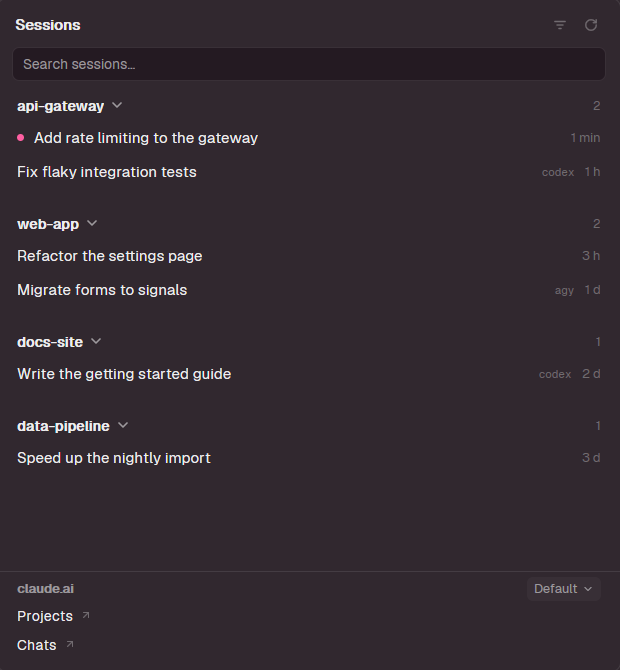
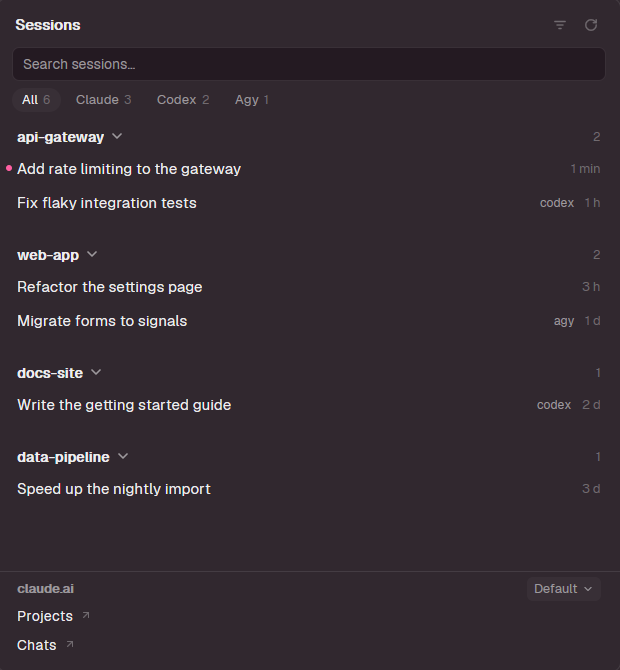
docs: document the agent filter and bump to 0.2.1

diff --git a/RECIPE.md b/RECIPE.md
@@ -35,7 +35,7 @@ Folders are ordered by their newest session; sessions inside a folder are newest
 
 - `mods/sessions/mod.json`: `{ "place": "none", "title": "Agent Sessions", "overlay": { "kind": "popup", "at": "top", "offset": 48, "width": 520, "height": 0.8 } }`.
 - `mods/sessions/keys.json`: `{ "global": { "ctrl-shift-s": "mod.open:sessions" } }`, to merge into the person's keys.
-- `mods/sessions/main.js`: an `AGENTS` table (`claude`, `codex`, `agy`) with the badge label (empty for Claude), `resume(id)` argv and `fresh` argv of each: `claude --resume <id>`, `codex --no-daemon resume <id>` (herdr needs `--no-daemon`; the shared daemon would reuse the first terminal), `agy --conversation <id>`. A non-Claude row shows its label in 9.5 px `dim` before the age and the label is part of the search text; the folder's `+` starts the agent of its newest session. Only Claude rows can be `live`. A `View` using `gpui-kit` and `gpui-base` (`v_flex`, `h_flex`, `InputState`, `Input`, `overflow_y_scrollbar`), and from `herdr`: `exec`, `home`, `run`, `theme`, `props`, `closeOverlay`, `agents`, `panes`, `window`. `props()?.overlay` (`props()` can be null) tells the popup from a docked block: the popup uses a fixed 560 px height, `popover` fill, focuses the search and closes itself when a session opens. All colors come from `theme()`.
+- `mods/sessions/main.js`: an `AGENTS` table (`claude`, `codex`, `agy`) with the badge label (empty for Claude), `resume(id)` argv and `fresh` argv of each: `claude --resume <id>`, `codex --no-daemon resume <id>` (herdr needs `--no-daemon`; the shared daemon would reuse the first terminal), `agy --conversation <id>`. A non-Claude row shows its label in 10 px `muted` before the age and the label is part of the search text. Under the search box (12 px side margins, 6 px below) a row of 20 px pill chips (radius 10, 8 px padding, 11 px label plus a 10 px `dim` count) filters by agent: All, Claude, Codex, Agy; the active chip has a `raised` fill and `foreground` text, the others `muted` with a `hover` fill; the row exists only when at least two agents have sessions, and a selected agent that has no sessions any more falls back to All. The live dot (5 px `accent`) sits in the row's left gutter so titles stay aligned; the folder's `+` starts the agent of its newest session. Only Claude rows can be `live`. A `View` using `gpui-kit` and `gpui-base` (`v_flex`, `h_flex`, `InputState`, `Input`, `overflow_y_scrollbar`), and from `herdr`: `exec`, `home`, `run`, `theme`, `props`, `closeOverlay`, `agents`, `panes`, `window`. `props()?.overlay` (`props()` can be null) tells the popup from a docked block: the popup uses a fixed 560 px height, `popover` fill, focuses the search and closes itself when a session opens. All colors come from `theme()`.
 - `mods/sessions/index.js`: plain Node, no dependencies. Run with `exec("node", [<home>/.config/herdr-app/mods/sessions/index.js])`. For every `~/.claude/projects/<folder>/*.jsonl` it reads the first 48 KB and the last 96 KB, parses each complete JSON line and takes `cwd`, `gitBranch`, the last `ai-title`, `last-prompt` and `agent-name`. It prints a JSON array of `{id, cwd, project, worktree, title, name, last, branch, mtime, live}` sorted by `mtime` descending. `live` is true when `~/.claude/sessions/<pid>.json` names the session and `process.kill(pid, 0)` finds that process alive. Transcripts without a `cwd` are skipped. A path containing `.claude/worktrees` marks a worktree.
 - Icons (`close.svg`, `refresh.svg`, `external.svg`, `chevron-down.svg`, `chevron-right.svg`, `plus.svg`, `sort.svg`, `check.svg`): one-color SVGs tinted by the text color. Hover uses `on_hover` with one state field and calls `cx.notify()` only when it changes; no timers.
 - `mods/sessions-button/` (`main.js`, `mod.json` with `"place": "none"`, `history.svg`): a 26 px high button, 12 px text, 8 px horizontal padding, 14 px icon plus the label "Sessions"; fill `chrome`, text `muted`, hover `hover` fill and `foreground` text, same bottom border as the tab bar; tooltip "Session history (Ctrl+Shift+S)". Click: `run("mod.open", { name: "sessions" })`; its mouse-down is stopped so it does not start a window drag. `h_flex` comes from `gpui-base`, not `gpui-kit`. In a layout it sits in a `tabbar` row (112 px) to the left of the `tabs` block: `{ "id": "tabbar", "type": "row", "size": { "px": 30 }, "window_drag": true, "children": [ <sessions-button block, 112 px>, <tabs block, weight 1> ] }`; use the height the `tabs` block already has.

diff --git a/CHANGELOG.md b/CHANGELOG.md
@@ -5,6 +5,15 @@ The format follows [Keep a Changelog](https://keepachangelog.com/en/1.1.0/) and 
 
 ## [Unreleased]
 
+## [0.2.1] - 2026-11-22
+
+### Added
+- A row of agent filter chips (All, Claude, Codex, Agy, with counts) under the search box, shown only when at least two agents have sessions.
+
+### Changed
+- The `codex` / `agy` badge is a little larger and clearer (10 px, `muted`).
+- The running-session dot sits in the left gutter, so titles no longer shift right.
+
 ## [0.2.0] - 2026-11-22
 
 ### Added
@@ -33,6 +42,7 @@ The format follows [Keep a Changelog](https://keepachangelog.com/en/1.1.0/) and 
 - A "claude.ai" section: your own pinned links (from the clipboard, `claude.ai` links only) plus Projects and Chats shortcuts.
 - "Open links in" chip on the claude.ai heading, always showing the current choice and opening a dropdown to change it. Browser (Default, Brave, Chrome, Edge, Firefox) and mode (Normal, New window, Private) are chosen separately, so any combination works; a previously saved combined choice is migrated. Each link's tooltip says where it will open.
 
-[Unreleased]: https://github.com/JhonZBM/herdr-sessions/compare/v0.2.0...HEAD
+[Unreleased]: https://github.com/JhonZBM/herdr-sessions/compare/v0.2.1...HEAD
+[0.2.1]: https://github.com/JhonZBM/herdr-sessions/compare/v0.2.0...v0.2.1
 [0.2.0]: https://github.com/JhonZBM/herdr-sessions/compare/v0.1.0...v0.2.0
 [0.1.0]: https://github.com/JhonZBM/herdr-sessions/releases/tag/v0.1.0

diff --git a/README.es.md b/README.es.md
@@ -78,7 +78,7 @@ Imprime JSON. Nunca escribe, no envía nada por la red e ignora las transcripcio
 - Una ventana privada del navegador comparte su sesión solo mientras haya una ventana privada abierta; si no, pedirá iniciar sesión otra vez.
 - Saltar a una sesión en marcha busca su terminal por el nombre de la sesión que aparece en el título de la pestaña. Dos sesiones de Claude con el mismo nombre, o una que corra fuera de herdr, no se pueden emparejar y muestran "running outside herdr".
 - Las sesiones sin título generado por la IA muestran su primer prompt.
-- Las filas de Codex y Antigravity llevan una insignia `codex` / `agy`, y escribir el nombre del agente en el buscador filtra por él.
+- Las filas de Codex y Antigravity llevan una insignia `codex` / `agy`. Cuando dos o más agentes tienen sesiones, una fila de chips (All, Claude, Codex, Agy, cada uno con su contador) bajo el buscador filtra por agente; con un solo agente queda oculta.
 - Solo las sesiones de Claude Code se detectan como en marcha. Una fila de Codex o Antigravity siempre abre una pestaña nueva, así que comprueba que no esté ya abierta.
 - Cursor CLI aún no es compatible: no está instalado en el equipo donde se hizo esto, así que su formato de historial no está verificado. Se agradece una contribución (ver `CONTRIBUTING.md`).
 - Se omiten las sesiones de Antigravity sin carpeta, como las iniciadas desde su IDE.

diff --git a/README.md b/README.md
@@ -78,7 +78,7 @@ It prints JSON. It never writes, never sends anything over the network and ignor
 - A private browser window shares its login only while a private window stays open; otherwise it asks you to sign in again.
 - Jumping to a running session matches its terminal by the session name shown in the tab title. Two Claude sessions with the same name, or one running outside herdr, cannot be matched and show "running outside herdr".
 - Sessions without an AI-generated title show their first prompt.
-- Codex and Antigravity rows show a small `codex` / `agy` badge, and typing the agent's name in the search box filters by it.
+- Codex and Antigravity rows show a small `codex` / `agy` badge. When two or more agents have sessions, a row of chips (All, Claude, Codex, Agy, each with its count) under the search box filters by agent; with a single agent it stays hidden.
 - Only Claude Code sessions are detected as running. A Codex or Antigravity row always opens a new tab, so check that it is not already open.
 - Cursor CLI is not supported yet: it is not installed on the machine this was built on, so its history format is unverified. A contribution is welcome (see `CONTRIBUTING.md`).
 - Antigravity sessions without a folder, such as ones started from its IDE, are skipped.
